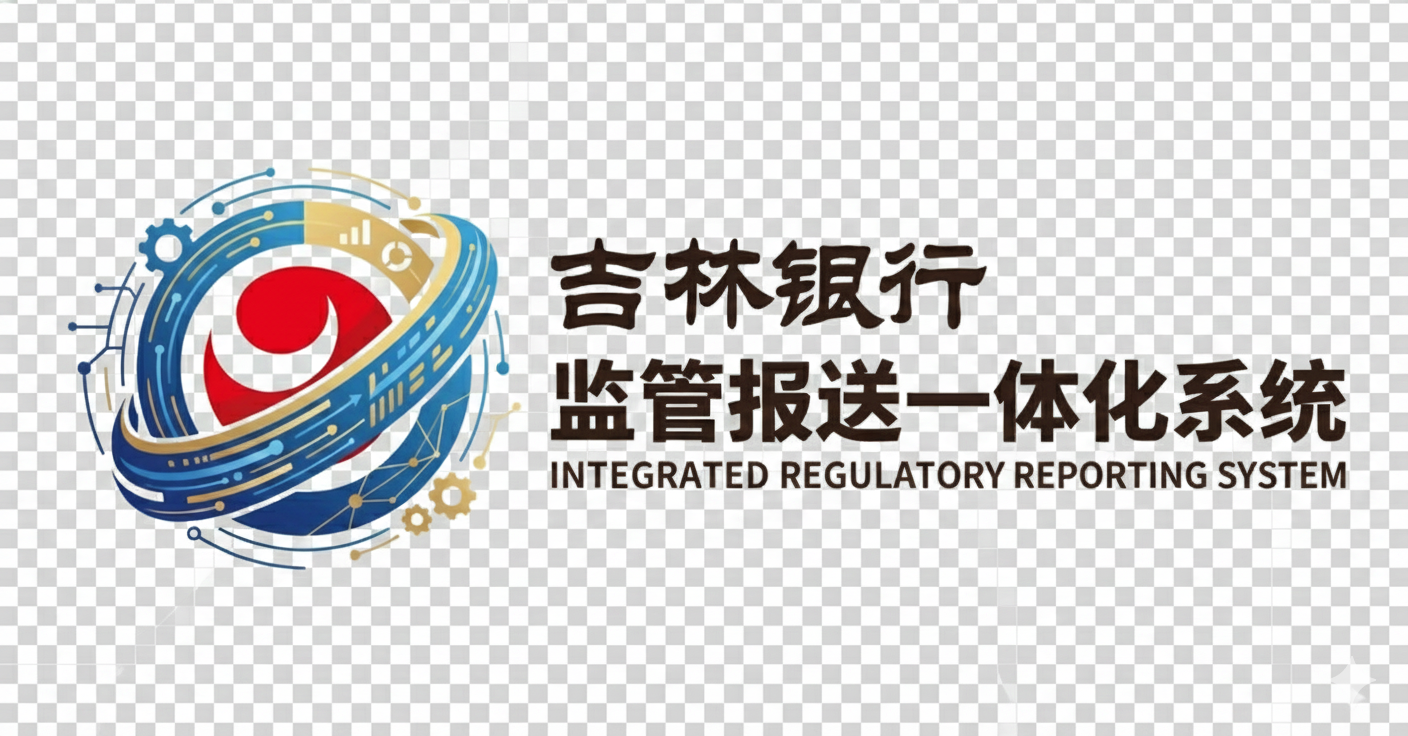
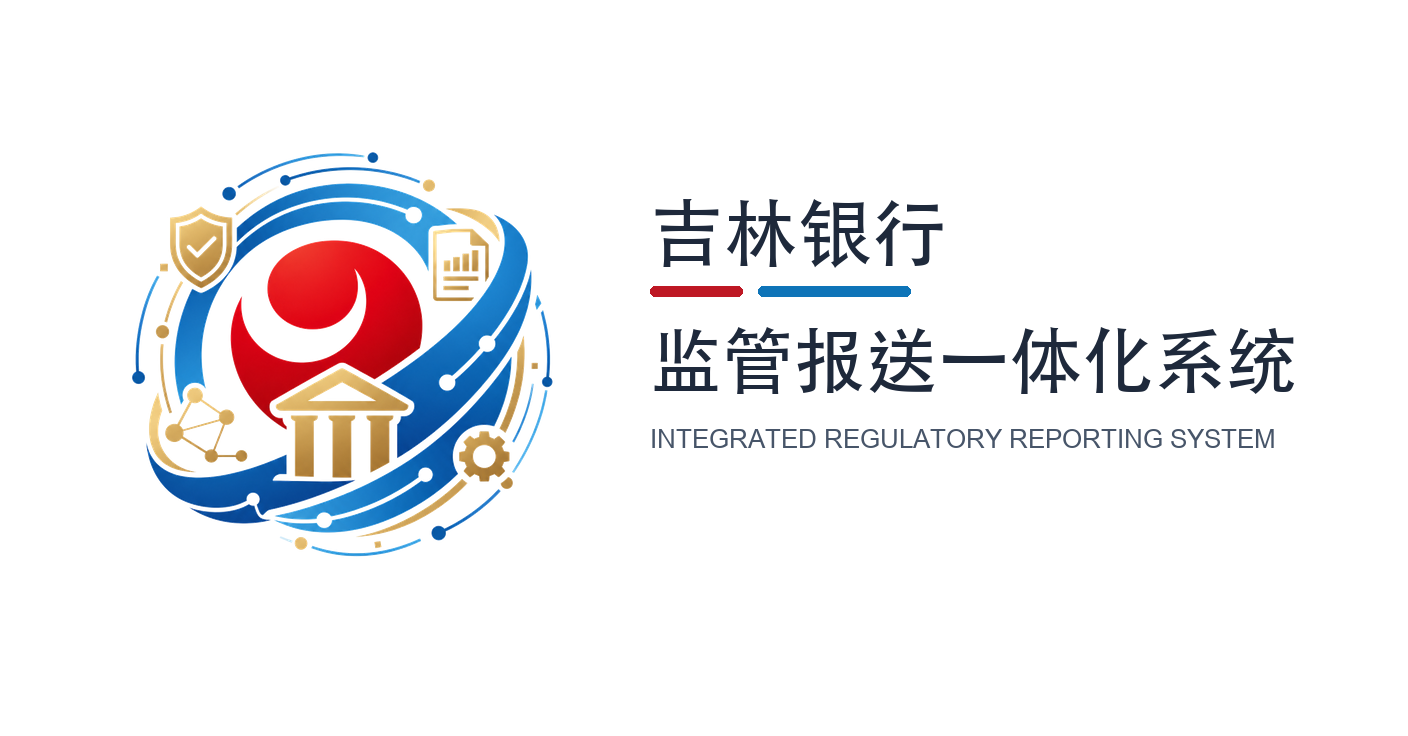
``` feat(app): 更新应用界面样式和图标
- 添加 ChevronDown 图标用于下拉菜单
- 优化侧边栏样式，调整圆角、阴影和颜色配置
- 更新顶部导航栏高度和间距布局
- 改进 logo 显示效果，调整大小和适配方式
- 优化用户菜单和通知按钮样式
- 调整导航项选中状态的视觉反馈

refactor(login): 优化登录页面布局和logo显示

- 引入新的登录页面专用logo常量
- 简化登录页面头部logo区域布局
- 更新登录页面logo尺寸和样式
- 调整移动端logo显示方式

chore(assets): 更新系统logo文件

- 替换银行logo为新版本
- 添加登录页面专用深色logo
- 更新favicon和其他系统图片资源
```

diff --git a/urgs-web/src/App.tsx b/urgs-web/src/App.tsx
@@ -1,6 +1,6 @@
 import React, { useEffect, useState } from 'react';
 import { hasPermission } from './utils/permission';
-import { LayoutDashboard, Menu, Bell, Search, UserCircle, LogOut, Settings, PanelTop, PanelLeft, Megaphone, Timer, Database, GitBranch, Activity, Lock, Palette, User, Sparkles, Award, BookOpen } from 'lucide-react';
+import { LayoutDashboard, Menu, Bell, Search, UserCircle, LogOut, Settings, PanelTop, PanelLeft, Megaphone, Timer, Database, GitBranch, Activity, Lock, Palette, User, Sparkles, Award, BookOpen, ChevronDown } from 'lucide-react';
 import { motion, AnimatePresence } from 'framer-motion';
 import Login from './components/Login';
 import Dashboard from './components/home/Dashboard';
@@ -239,21 +239,21 @@ const App: React.FC = () => {
         <div className={`flex h-screen bg-slate-50 ${layoutMode === 'topbar' ? 'flex-col' : 'flex-row'}`}>
             {layoutMode === 'sidebar' && (
                 <aside
-                    className={`${sidebarOpen ? 'w-64' : 'w-24'} m-4 mr-0 rounded-[2.5rem] bg-white/70 backdrop-blur-3xl border border-white/40 text-slate-800 transition-all duration-500 flex flex-col shadow-[0_40px_100px_-20px_rgba(0,0,0,0.1)] z-20 shrink-0 relative`}
+                    className={`${sidebarOpen ? 'w-64' : 'w-24'} m-4 mr-0 rounded-[1.75rem] bg-white/85 backdrop-blur-2xl border border-slate-200/70 text-slate-800 transition-all duration-500 flex flex-col shadow-[0_24px_70px_-38px_rgba(15,23,42,0.45)] z-20 shrink-0 relative`}
                 >
-                    <div className="h-24 flex items-center justify-between px-6 border-b border-slate-100/30 bg-white/10 overflow-hidden shrink-0">
+                    <div className="h-20 flex items-center justify-between px-5 border-b border-slate-100 overflow-hidden shrink-0">
                         {sidebarOpen && (
                             <motion.div
                                 initial={{ opacity: 0, x: -20 }}
                                 animate={{ opacity: 1, x: 0 }}
                                 className="flex flex-col items-center pl-1"
                             >
-                                <img src={LOGO_URL} alt="Bank of Jilin" className="h-7 object-contain brightness-110" />
+                                <img src={LOGO_URL} alt="Bank of Jilin" className="w-36 max-w-full h-auto object-contain brightness-110" />
                             </motion.div>
                         )}
                         <button
                             onClick={() => setSidebarOpen(!sidebarOpen)}
-                            className={`p-3 bg-slate-100/50 hover:bg-white rounded-[1.25rem] text-slate-500 hover:text-red-600 transition-all border border-transparent hover:border-slate-200/50 flex-shrink-0 ${!sidebarOpen ? 'mx-auto' : ''}`}
+                            className={`p-2.5 hover:bg-slate-100 rounded-xl text-slate-500 hover:text-red-600 transition-all flex-shrink-0 ${!sidebarOpen ? 'mx-auto' : ''}`}
                         >
                             <Menu size={18} strokeWidth={2.5} />
                         </button>
@@ -272,9 +272,9 @@ const App: React.FC = () => {
                         ))}
                     </nav>
 
-                    <div className="p-3 border-t border-slate-100 flex flex-col gap-4 shrink-0">
+                    <div className="p-3 border-t border-slate-100 flex flex-col gap-3 shrink-0">
                         <div className={`flex ${sidebarOpen ? 'justify-start px-2' : 'justify-center'}`}>
-                            <button className="p-2.5 relative bg-slate-50 hover:bg-white rounded-xl text-slate-400 hover:text-red-500 transition-all border border-slate-100/50 shadow-sm group">
+                            <button className="p-2.5 relative hover:bg-slate-100 rounded-xl text-slate-400 hover:text-red-500 transition-all group">
                                 <Bell size={20} strokeWidth={2.5} className="group-hover:rotate-12 transition-transform" />
                                 <span className="absolute top-2.5 right-2.5 w-2.5 h-2.5 bg-red-500 rounded-full border-2 border-white shadow-sm"></span>
                             </button>
@@ -327,18 +327,16 @@ const App: React.FC = () => {
 
             <div className="flex-1 flex flex-col min-w-0 overflow-hidden relative">
                 {layoutMode === 'topbar' && (
-                    <header className="bg-white/80 backdrop-blur-xl border-b border-slate-200/50 h-20 flex items-center justify-between px-8 z-[100] relative shrink-0">
-                        <div className="absolute bottom-0 left-0 w-full h-[1px] bg-gradient-to-r from-transparent via-red-500/20 to-transparent"></div>
-
-                        <div className="flex items-center gap-10">
-                            <div className="flex items-center gap-10">
-                                <div className="flex items-center gap-4 py-1 px-3 bg-slate-50 rounded-2xl border border-slate-100 shadow-inner">
-                                    <img src={LOGO_URL} alt="Bank Logo" className="h-8 w-auto object-contain" />
-                                    <div className="h-6 w-px bg-slate-200"></div>
-                                    <span className="text-[10px] font-black text-slate-500 uppercase tracking-widest italic pr-1">ARK / PORTAL</span>
+                    <header className="h-[72px] bg-white/92 backdrop-blur-xl border-b border-slate-200/80 px-6 xl:px-8 z-[100] relative shrink-0 shadow-[0_18px_45px_-38px_rgba(15,23,42,0.55)]">
+                        <div className="h-full flex items-center justify-between gap-6">
+                            <div className="flex items-center gap-7 min-w-0">
+                                <div className="flex items-center gap-3 shrink-0">
+                                    <img src={LOGO_URL} alt="Bank Logo" className="w-36 h-auto max-w-[9rem] object-contain" />
+                                    <div className="hidden xl:flex h-7 w-px bg-slate-200"></div>
+                                    <span className="hidden xl:inline-flex text-[11px] font-black text-slate-500 uppercase tracking-[0.18em]">ARK / PORTAL</span>
                                 </div>
 
-                                <nav className="hidden lg:flex items-center bg-slate-100/50 p-1.5 rounded-[1.25rem] relative" ref={moreMenuRef}>
+                                <nav className="hidden lg:flex items-center gap-1 relative min-w-0" ref={moreMenuRef}>
                                     {(() => {
                                         const allowedItems = NAV_ITEMS.filter(item => hasPermission(item.permission));
                                         if (allowedItems.length === 0) return null;
@@ -363,14 +361,14 @@ const App: React.FC = () => {
                                                         <button
                                                             key={item.id}
                                                             onClick={() => { setActiveTab(item.id); window.location.hash = '#/' + item.id; }}
-                                                            className={`relative flex items-center gap-2 px-4 py-2 rounded-xl text-[12px] font-black uppercase tracking-wider transition-all duration-300 z-10
-                                                            ${isActive ? 'text-red-600' : 'text-slate-500 hover:text-slate-800'}
+                                                            className={`relative flex items-center gap-2 px-3.5 py-2.5 rounded-xl text-[12px] font-black uppercase tracking-wider transition-all duration-300 z-10
+                                                            ${isActive ? 'text-red-600' : 'text-slate-500 hover:text-slate-900 hover:bg-slate-100/70'}
                                                         `}
                                                             >
                                                                 {isActive && (
                                                                     <motion.div
                                                                         layoutId="topNavTab"
-                                                                        className="absolute inset-0 bg-white shadow-xl shadow-black/[0.03] rounded-xl z-[-1] border border-slate-100"
+                                                                        className="absolute inset-0 bg-red-50/90 rounded-xl z-[-1]"
                                                                         transition={{ type: "spring", bounce: 0.2, duration: 0.6 }}
                                                                     />
                                                                 )}
@@ -381,11 +379,11 @@ const App: React.FC = () => {
                                                     })}
 
                                                         {hiddenItems.length > 0 && (
-                                                            <div className="relative z-20 ml-1">
+                                                            <div className="relative z-20">
                                                                 <button
                                                                     onClick={() => setShowMoreNavMenu(!showMoreNavMenu)}
-                                                                    className={`flex items-center gap-2 px-4 py-2.5 rounded-xl text-[12px] font-black uppercase tracking-wider transition-all duration-300
-                                                                    ${showMoreNavMenu ? 'bg-white text-slate-800 shadow-sm border border-slate-100' : 'text-slate-500 hover:text-slate-800'}
+                                                                    className={`flex items-center gap-2 px-3.5 py-2.5 rounded-xl text-[12px] font-black uppercase tracking-wider transition-all duration-300
+                                                                    ${showMoreNavMenu ? 'bg-slate-100 text-slate-900' : 'text-slate-500 hover:text-slate-900 hover:bg-slate-100/70'}
                                                                 `}
                                                                 >
                                                                     <span>更多应用</span>
@@ -393,9 +391,7 @@ const App: React.FC = () => {
                                                                         animate={{ rotate: showMoreNavMenu ? 180 : 0 }}
                                                                         transition={{ type: 'spring', stiffness: 200, damping: 20 }}
                                                                     >
-                                                                        <svg width="10" height="6" viewBox="0 0 10 6" fill="none" xmlns="http://www.w3.org/2000/svg">
-                                                                            <path d="M1 1L5 5L9 1" stroke="currentColor" strokeWidth="2" strokeLinecap="round" strokeLinejoin="round" />
-                                                                        </svg>
+                                                                        <ChevronDown size={14} strokeWidth={2.5} />
                                                                     </motion.div>
                                                                 </button>
 
@@ -406,7 +402,7 @@ const App: React.FC = () => {
                                                                             animate={{ opacity: 1, y: 0, scale: 1 }}
                                                                             exit={{ opacity: 0, y: 10, scale: 0.95 }}
                                                                             transition={{ type: "spring", bounce: 0.3, duration: 0.5 }}
-                                                                            className="absolute right-0 top-full mt-3 w-56 bg-white/90 backdrop-blur-2xl rounded-[1.25rem] shadow-[0_20px_40px_-10px_rgba(0,0,0,0.1)] border border-white p-2 z-50 grid grid-cols-1 gap-1"
+                                                                            className="absolute right-0 top-full mt-3 w-56 bg-white/95 backdrop-blur-2xl rounded-2xl shadow-[0_24px_50px_-18px_rgba(15,23,42,0.28)] border border-slate-200/80 p-2 z-50 grid grid-cols-1 gap-1"
                                                                         >
                                                                             {hiddenItems.map((item) => (
                                                                                 <button
@@ -418,7 +414,7 @@ const App: React.FC = () => {
                                                                                     }}
                                                                                     className="flex items-center gap-3 w-full px-4 py-3 rounded-xl text-left transition-all hover:bg-slate-50 hover:text-red-600 group"
                                                                                 >
-                                                                                    <div className="p-1.5 rounded-lg bg-slate-100/80 text-slate-500 group-hover:bg-red-100/50 group-hover:text-red-600 transition-colors">
+                                                                                    <div className="p-1.5 rounded-lg bg-slate-100/80 text-slate-500 group-hover:bg-red-50 group-hover:text-red-600 transition-colors">
                                                                                         <item.icon size={16} strokeWidth={2.5} />
                                                                                     </div>
                                                                                     <span className="text-[13px] font-bold text-slate-700 group-hover:text-red-600">{item.label}</span>
@@ -434,25 +430,24 @@ const App: React.FC = () => {
                                             })()}
                                         </nav>
                                     </div >
-                                </div>
 
-                                <div className="flex items-center gap-6">
-                                    <button className="p-3 relative bg-slate-50 hover:bg-white rounded-2xl text-slate-400 hover:text-red-500 transition-all border border-slate-100/50 shadow-sm group">
+                                <div className="flex items-center gap-4 shrink-0 whitespace-nowrap">
+                                    <button className="p-2.5 relative hover:bg-slate-100 rounded-xl text-slate-400 hover:text-red-500 transition-all group">
                                         <Bell size={20} strokeWidth={2.5} className="group-hover:rotate-12 transition-transform" />
-                                        <span className="absolute top-2.5 right-2.5 w-3 h-3 bg-red-500 rounded-full border-[3px] border-white shadow-sm"></span>
+                                        <span className="absolute top-2.5 right-2.5 w-2.5 h-2.5 bg-red-500 rounded-full border-2 border-white shadow-sm"></span>
                                     </button>
 
-                                    <div className="flex items-center gap-5 pl-4 border-l border-slate-200/60">
-                                        <div className="text-right hidden xl:block">
-                                            <p className="text-[13px] font-black text-slate-800 tracking-tight leading-none mb-1">{userInfo?.name || '用户'}</p>
-                                            <p className="text-[9px] text-slate-400 font-bold uppercase tracking-[0.15em]">{userInfo?.roleName || 'System Admin'}</p>
+                                    <div className="flex items-center gap-4 pl-4 border-l border-slate-200 min-w-0 flex-nowrap">
+                                        <div className="text-right hidden xl:block min-w-0 max-w-36 shrink">
+                                            <p className="text-[13px] font-black text-slate-800 tracking-tight leading-none mb-1 truncate">{userInfo?.name || '用户'}</p>
+                                            <p className="text-[9px] text-slate-400 font-bold uppercase tracking-[0.15em] truncate">{userInfo?.roleName || 'System Admin'}</p>
                                         </div>
 
-                                        <div className="relative" ref={userMenuRef}>
+                                        <div className="relative shrink-0" ref={userMenuRef}>
                                             <button
                                                 onClick={() => setShowUserMenu(!showUserMenu)}
-                                                className={`group relative w-12 h-12 rounded-[1.25rem] bg-slate-50 border transition-all duration-500 overflow-hidden flex items-center justify-center
-                                                ${showUserMenu ? 'border-red-400 shadow-lg shadow-red-500/10' : 'border-slate-100 hover:border-red-200 hover:shadow-md'}
+                                                className={`group relative w-11 h-11 rounded-xl border transition-all duration-300 overflow-hidden flex items-center justify-center
+                                                ${showUserMenu ? 'bg-red-50 border-red-200' : 'bg-slate-50 border-slate-100 hover:bg-slate-100 hover:border-slate-200'}
                                             `}
                                             >
                                                 {userInfo?.avatarUrl ? (
@@ -471,7 +466,7 @@ const App: React.FC = () => {
                                                         initial={{ opacity: 0, y: 10, scale: 0.95 }}
                                                         animate={{ opacity: 1, y: 0, scale: 1 }}
                                                         exit={{ opacity: 0, y: 10, scale: 0.95 }}
-                                                        className="absolute right-0 top-full mt-4 w-60 bg-white/90 backdrop-blur-2xl rounded-[1.5rem] shadow-[0_30px_60px_-15px_rgba(0,0,0,0.15)] border border-white/60 p-2 z-[110] overflow-hidden"
+                                                        className="absolute right-0 top-full mt-4 w-60 bg-white/95 backdrop-blur-2xl rounded-2xl shadow-[0_24px_50px_-18px_rgba(15,23,42,0.28)] border border-slate-200/80 p-2 z-[110] overflow-hidden"
                                                     >
                                                         {renderUserMenuContent()}
                                                     </motion.div>
@@ -480,6 +475,7 @@ const App: React.FC = () => {
                                         </div>
                                     </div>
                                 </div>
+                            </div>
                             </header>
                         )}
 

diff --git a/urgs-web/src/components/login/LoginPage.tsx b/urgs-web/src/components/login/LoginPage.tsx
@@ -1,5 +1,5 @@
 import React, { useState, useEffect } from "react";
-import { LOGO_URL } from "../../constants";
+import { LOGIN_DARK_LOGO_URL, LOGO_URL } from "../../constants";
 import { Lock, User, Eye, EyeOff, ShieldCheck, ChevronRight, Landmark, Activity } from "lucide-react";
 
 /* ── Particle type ─────────────────────────────────────────────── */
@@ -252,16 +252,12 @@ const LoginPage: React.FC<LoginProps> = ({ onLogin }) => {
         <div className="absolute bottom-[-10%] right-[-10%] w-[40%] h-[40%] rounded-full bg-red-600/10 blur-[100px]"
              style={{ animation: 'pulse-glow 12s ease-in-out infinite 2s' }} />
 
-        <div className="relative z-10 flex items-center gap-3">
-          <div className="bg-white p-2 rounded-xl shadow-lg shadow-black/50 animate-in zoom-in duration-700 relative overflow-hidden group">
+        <div className="relative z-10 flex items-center">
+          <div className="bg-transparent p-0 animate-in zoom-in duration-700 relative overflow-hidden group">
             {/* shimmer overlay */}
             <div className="absolute inset-0 opacity-0 group-hover:opacity-100 transition-opacity duration-500"
-                 style={{ background: 'linear-gradient(105deg, transparent 40%, rgba(59,130,246,0.15) 45%, rgba(239,68,68,0.15) 50%, transparent 55%)', backgroundSize: '200% 100%', animation: 'border-shimmer 3s linear infinite' }} />
-            <img src={LOGO_URL} alt="Logo" className="h-8 w-auto relative z-10" />
-          </div>
-          <div className="animate-in fade-in slide-in-from-left-4 duration-1000 delay-300">
-            <div className="text-xl font-bold tracking-tight">监管报送一体化系统</div>
-            <div className="text-xs text-slate-400 tracking-[0.2em] uppercase mt-0.5">Integrated Reporting Portal</div>
+                 style={{ background: 'linear-gradient(105deg, transparent 40%, rgba(59,130,246,0.18) 45%, rgba(239,68,68,0.16) 50%, transparent 55%)', backgroundSize: '200% 100%', animation: 'border-shimmer 3s linear infinite' }} />
+            <img src={LOGIN_DARK_LOGO_URL} alt="监管报送一体化系统" className="w-[360px] max-w-full h-auto relative z-10" />
           </div>
         </div>
 
@@ -295,9 +291,8 @@ const LoginPage: React.FC<LoginProps> = ({ onLogin }) => {
       <div className="flex items-center justify-center p-8 bg-white">
         <div className="w-full max-w-[400px]">
           {/* Mobile Logo */}
-          <div className="lg:hidden flex items-center justify-center gap-3 mb-12">
-            <img src={LOGO_URL} alt="Logo" className="h-10 w-auto" />
-            <span className="text-xl font-bold text-slate-900">监管报送一体化系统</span>
+          <div className="lg:hidden flex items-center justify-center mb-12">
+            <img src={LOGO_URL} alt="监管报送一体化系统" className="w-[320px] max-w-full h-auto" />
           </div>
 
           {/* Header */}
@@ -412,4 +407,3 @@ const LoginPage: React.FC<LoginProps> = ({ onLogin }) => {
 };
 
 export default LoginPage;
-

diff --git a/urgs-web/src/constants.ts b/urgs-web/src/constants.ts
@@ -1,6 +1,7 @@
 import { SystemLink, Notice, CompletionStat, TrendStat } from './types';
 
-export const LOGO_URL = "/jlbank_logo.png";
+export const LOGO_URL = "/jlbank_logo_new.png";
+export const LOGIN_DARK_LOGO_URL = "/jlbank_logo_dark.png";
 
 export const SYSTEM_LINKS: SystemLink[] = [
   {
